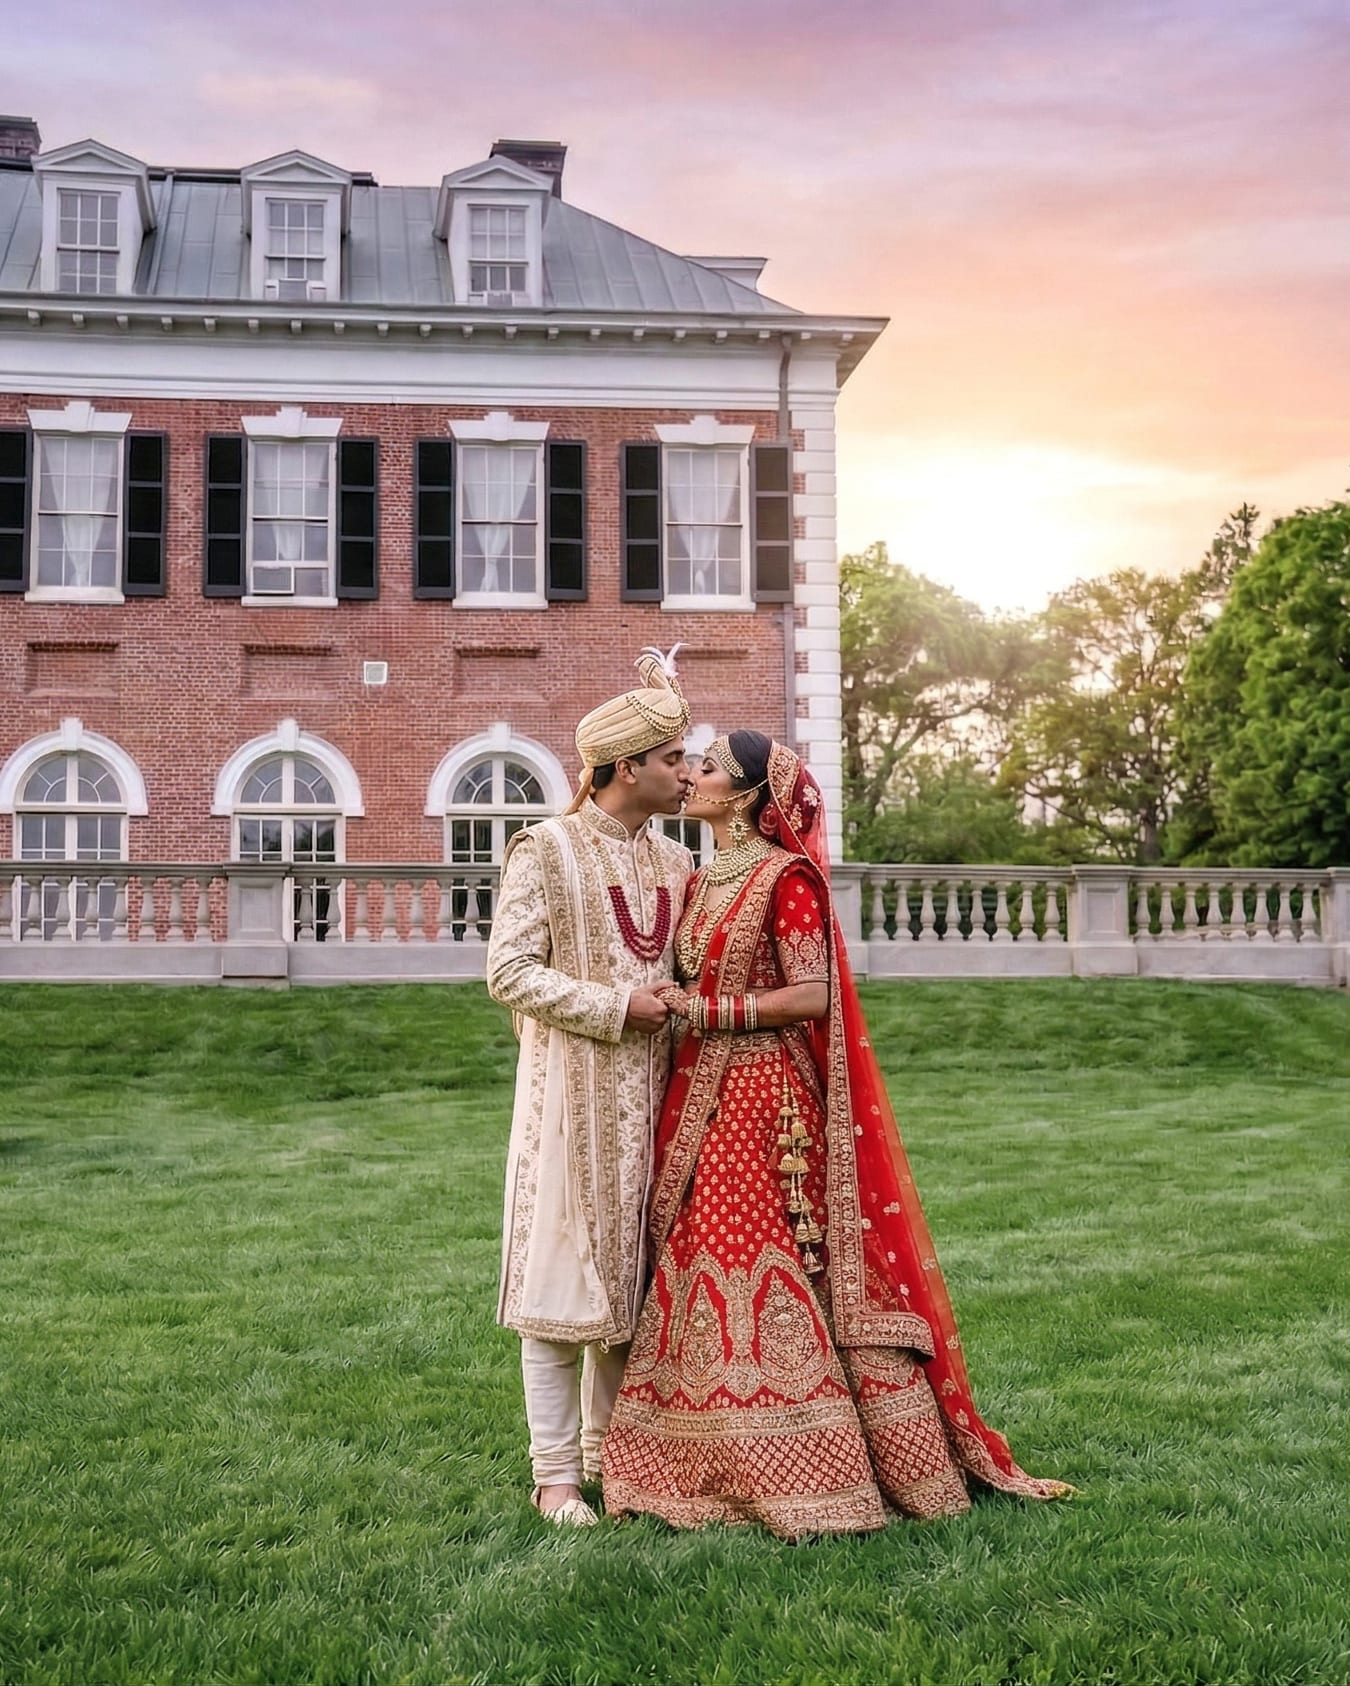
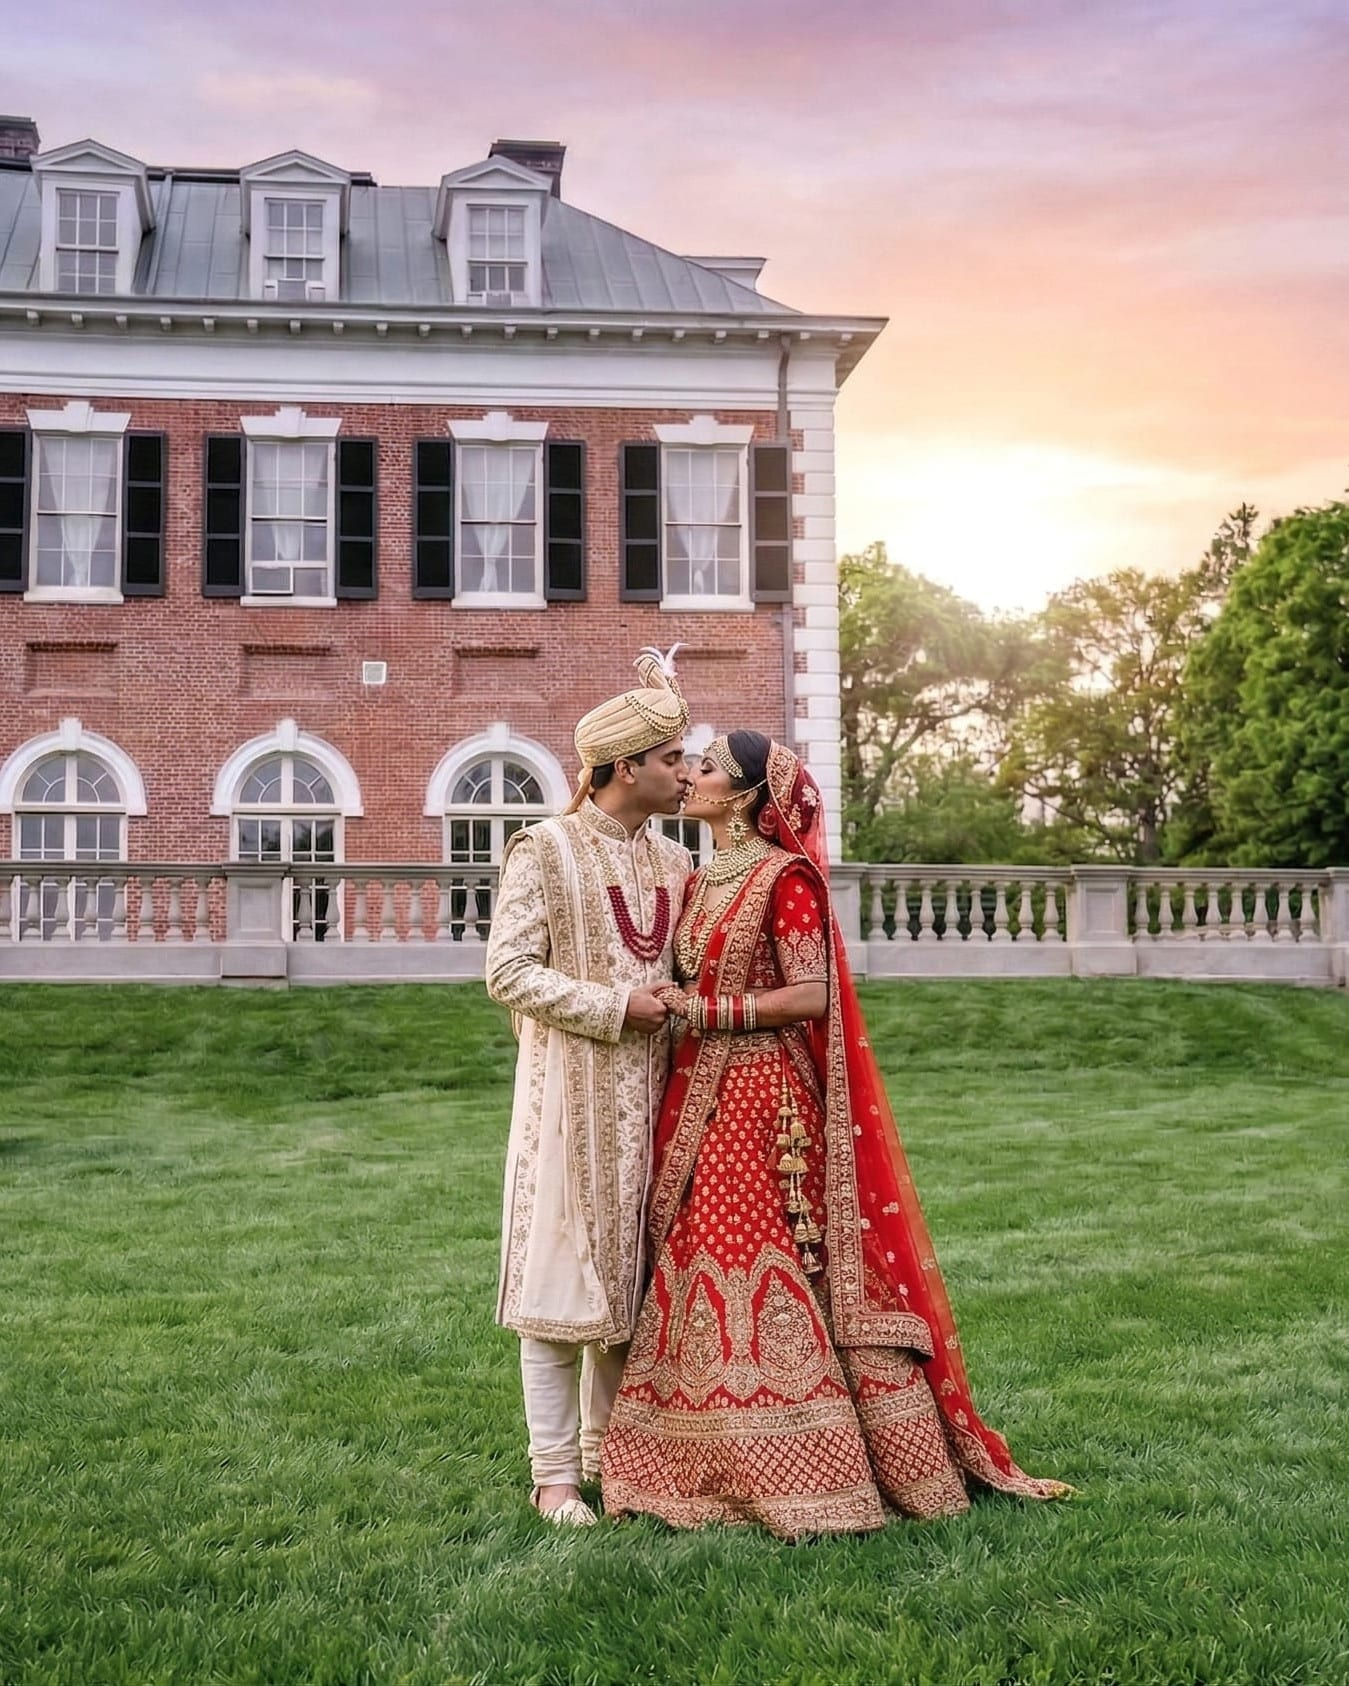
updated small changes and removed tardis cafe

diff --git a/src/components/TardisSection.tsx b/src/components/TardisSection.tsx
@@ -13,7 +13,10 @@ export default function TardisSection() {
   const isInView = useInView(ref, { once: false, margin: "-10%" });
 
   return (
-    <section className="bg-cream py-10 md:py-section px-6 overflow-hidden" ref={ref}>
+    <section
+      className="bg-cream py-10 md:py-section px-6 overflow-hidden"
+      ref={ref}
+    >
       <div className="max-w-8xl mx-auto grid grid-cols-1 lg:grid-cols-2 gap-16 items-center">
         <div className="order-2 lg:order-1 flex flex-col gap-3">
           <motion.div
@@ -81,11 +84,11 @@ export default function TardisSection() {
             animate={isInView ? { opacity: 1, x: 0 } : { opacity: 0, x: -16 }}
             transition={{ duration: 0.6, delay: 0.1, ease }}
           >
-            Culinary Excellence by Tardis Catering
+            Culinary Excellence by Tardi's Catering
           </motion.p>
 
           <h2 className="font-display text-[clamp(1.75rem,6vw,3.5rem)] leading-tight text-balance break-words uppercase text-primary-dark overflow-hidden">
-            {"Tardis Catering & Tardis Cafe".split(" ").map((word, i) => (
+            {"Tardi's Catering".split(" ").map((word, i) => (
               <span
                 key={i}
                 className="inline-block overflow-hidden mr-[0.22em]"
@@ -110,7 +113,7 @@ export default function TardisSection() {
           >
             At Artistry Estate, dining is more than a service. It is an
             experience crafted to captivate the senses and elevate every moment.
-            Under the direction of Tardis Catering, each menu is a celebration
+            Under the direction of Tardi's Catering, each menu is a celebration
             of innovation, seasonality, and refined taste.
           </motion.p>
 
@@ -132,7 +135,7 @@ export default function TardisSection() {
             animate={isInView ? { opacity: 1, y: 0 } : { opacity: 0, y: 20 }}
             transition={{ duration: 0.8, delay: 0.85, ease }}
           >
-            Using only the finest, locally sourced ingredients, Tardis Catering
+            Using only the finest, locally sourced ingredients, Tardi's Catering
             transforms each dish into a work of art, beautifully presented and
             flawlessly executed. Paired with impeccable service and seamless
             coordination, the result is a dining experience as memorable as the
@@ -154,12 +157,12 @@ export default function TardisSection() {
             animate={isInView ? { opacity: 1, y: 0 } : { opacity: 0, y: 20 }}
             transition={{ duration: 0.8, delay: 1, ease }}
           >
-            <Link href="/tardis-catering" className="btn-outline-dark">
-              Tardis Catering
+            <Link href="/tardis-catering" className="btn-primary">
+              Tardi's Catering
             </Link>
-            <Link href="/tardis-cafe" className="btn-primary">
-              Tardis Cafe
-            </Link>
+            {/* <Link href="/tardis-cafe" className="btn-primary">
+              Tardi's Cafe
+            </Link> */}
           </motion.div>
         </div>
       </div>

diff --git a/src/app/tardis-catering/page.tsx b/src/app/tardis-catering/page.tsx
@@ -16,7 +16,7 @@ export default function TardisCateringPage() {
   return (
     <>
       <PageHero
-        label="Tardis Catering"
+        label="Tardi's Catering"
         title="Cuisine as Artful as the Setting"
         description="The exclusive culinary partner of Artistry. Every dish is crafted with the same attention to beauty and detail as the venue itself."
         imageSrc="/media/images/Tardis%20Catering/catering/hero.jpeg"
@@ -30,10 +30,10 @@ export default function TardisCateringPage() {
             <SectionHeader
               label="Who We Are"
               title="Culinary Craft at the Heart of Every Event"
-              description="Tardis Catering was founded on a single belief: that great food is not just sustenance. It is memory. A taste that recalls a moment. A dish that defines a celebration."
+              description="Tardi's Catering was founded on a single belief: that great food is not just sustenance. It is memory. A taste that recalls a moment. A dish that defines a celebration."
             />
             <p className="prose-venue mt-5">
-              As the exclusive catering partner of Artistry, Tardis brings
+              As the exclusive catering partner of Artistry, Tardi's brings
               together an award-winning culinary team trained in the finest
               kitchens of New York and Europe. Every menu is developed in close
               collaboration with the client. Seasonal ingredients, artisan
@@ -134,20 +134,6 @@ export default function TardisCateringPage() {
         </div>
       </section>
 
-      {/* Cafe link */}
-      <section className="bg-primary py-10 md:py-section px-6 text-center">
-        <SectionHeader
-          label="Also by Tardis"
-          title="Visit Tardis Cafe"
-          description="Stop by our Tardis Cafe for artisan coffee, seasonal bites, and light fare, open to museum visitors and event guests alike."
-          centered
-          light
-          className="mb-8"
-        />
-        <Link href="/tardis-cafe" className="btn-outline">
-          Explore Tardis Cafe
-        </Link>
-      </section>
     </>
   );
 }

diff --git a/src/app/tardis-cafe/page.tsx b/src/app/tardis-cafe/page.tsx
@@ -17,7 +17,7 @@ export default function TardisCafePage() {
   return (
     <>
       <PageHero
-        label="Tardis Cafe"
+        label="Tardi's Cafe"
         title="A Perfect Pause Among Art and Nature"
         description="Artisan coffee, seasonal fare, and warm hospitality. A tranquil retreat within the Nassau County Museum of Art grounds."
         imageSrc="/media/images/Tardis%20Catering/cafe/hero-image.png"
@@ -31,14 +31,14 @@ export default function TardisCafePage() {
             <SectionHeader
               label="The Cafe"
               title="Where the Museum Grounds Meet a Warm Cup"
-              description="Tardis Cafe was born from a desire to offer museum visitors and event guests a moment of true comfort: a beautifully crafted coffee, a seasonal bite, a place to pause and reflect."
+              description="Tardi's Cafe was born from a desire to offer museum visitors and event guests a moment of true comfort: a beautifully crafted coffee, a seasonal bite, a place to pause and reflect."
             />
             <p className="prose-venue mt-5">
-              Located within the museum grounds, the Tardis Cafe is the perfect
+              Located within the museum grounds, the Tardi's Cafe is the perfect
               companion to a morning stroll through the sculpture garden or a
               quiet lunch before an afternoon event. Every item on our menu
               reflects the same attention to craft and quality that defines
-              Tardis Catering.
+              Tardi's Catering.
             </p>
             <div className="mt-8 space-y-4">
               <div className="flex gap-3 items-start">
@@ -138,15 +138,15 @@ export default function TardisCafePage() {
       {/* CTA */}
       <section className="bg-primary py-10 md:py-section px-6 text-center">
         <SectionHeader
-          label="Also by Tardis"
+          label="Also by Tardi's"
           title="Hosting an Event?"
-          description="Tardis Catering handles full event menus and service at Artistry. Explore our catering experience."
+          description="Tardi's Catering handles full event menus and service at Artistry. Explore our catering experience."
           centered
           light
           className="mb-8"
         />
         <Link href="/tardis-catering" className="btn-outline">
-          Explore Tardis Catering
+          Explore Tardi's Catering
         </Link>
       </section>
     </>

diff --git a/src/data/navigation.ts b/src/data/navigation.ts
@@ -46,12 +46,12 @@ export const navigation: NavItem[] = [
     ],
   },
   {
-    label: "Tardis Catering",
+    label: "Tardi's Catering",
     href: "/tardis-catering",
-    children: [
-      { label: "Who We Are", href: "/tardis-catering" },
-      { label: "Tardis Cafe", href: "/tardis-cafe" },
-    ],
+    // children: [
+    //   { label: "Who We Are", href: "/tardis-catering" },
+    //   { label: "Tardi's Cafe", href: "/tardis-cafe" },
+    // ],
   },
   {
     label: "FIDI",

diff --git a/src/data/home.ts b/src/data/home.ts
@@ -6,11 +6,11 @@ export const venueImages = [
     alt: "Artistry event venue exterior at Nassau County Museum of Art",
   },
   {
-    src: "/media/images/home/about_1.jpeg",
+    src: "/media/images/home/about_2.jpg",
     alt: "Artistry venue interior and grounds",
   },
   {
-    src: "/media/images/home/about_3.jpeg",
+    src: "/media/images/home/about_4.jpg",
     alt: "Artistry venue gardens and estate",
   },
 ];
@@ -65,7 +65,7 @@ export const tardisSectionImages = [
     alt: "Tardis Catering elegant black and gold banquet table setting",
   },
   {
-    src: "/media/images/home/image_1.jpg",
+    src: "/media/images/Tardis Catering/catering/gallery/1.jpeg",
     alt: "Tardis Catering plated salad with crystal glassware",
   },
   {

diff --git a/src/data/about.ts b/src/data/about.ts
@@ -294,10 +294,9 @@ export const sitemapSections = [
     links: [{ label: "Preferred Vendors", href: "/vendors" }],
   },
   {
-    title: "Tardis Catering",
+    title: "Tardi's Catering",
     links: [
       { label: "Who We Are", href: "/tardis-catering" },
-      { label: "Tardis Cafe", href: "/tardis-cafe" },
     ],
   },
   {

diff --git a/src/data/site.ts b/src/data/site.ts
@@ -29,8 +29,7 @@ export const SITE = {
       "FIDI Hospitality is a premier hospitality group operating distinctive event venues across the New York metropolitan area. Artistry is one of FIDI's signature venues.",
   },
   catering: {
-    name: "Tardis Catering",
-    cafe: "Tardis Cafe",
+    name: "Tardi's Catering",
     description:
       "Tardis Catering is the exclusive culinary partner of Artistry, offering bespoke menus crafted by world-class chefs for weddings, corporate gatherings, and social celebrations.",
   },

diff --git a/src/app/events/celebrate-life/page.tsx b/src/app/events/celebrate-life/page.tsx
@@ -52,7 +52,7 @@ export default function CelebrateLifePage() {
               {
                 label: "The Food",
                 title: "Menus for the Occasion",
-                body: "Tardis Catering builds the menu around you: buffet, plated, or passed.",
+                body: "Tardi's Catering builds the menu around you: buffet, plated, or passed.",
                 img: "/media/images/events/celebrate/2 - The Food.jpeg",
                 alt: "Floral tablescape with gold chargers",
               },

diff --git a/src/app/events/corporate/page.tsx b/src/app/events/corporate/page.tsx
@@ -58,7 +58,7 @@ export default function CorporatePage() {
             />
             <p className="prose-venue mt-5">
               From intimate executive dinners to company-wide summer outings,
-              our team handles every detail with precision. Tardis Catering
+              our team handles every detail with precision. Tardi's Catering
               delivers exceptional cuisine and service, while our event
               coordinators ensure a seamless experience from arrival to
               departure.

diff --git a/src/app/events/weddings/page.tsx b/src/app/events/weddings/page.tsx
@@ -67,7 +67,7 @@ export default function WeddingsPage() {
             />
             <p className="prose-venue mt-5">
               From your first visit to the last moments of the evening, our
-              wedding team works alongside Tardis Catering and the museum staff
+              wedding team works alongside Tardi's Catering and the museum staff
               to make sure every part of the day runs the way you imagined it.
             </p>
             <div className="mt-8 flex flex-wrap gap-4">

diff --git a/src/app/fidi/page.tsx b/src/app/fidi/page.tsx
@@ -38,7 +38,7 @@ export default function FidiPage() {
               hospitality experience matches the grandeur of the venue. From
               Artistry at the Nassau County Museum of Art to our growing
               portfolio of signature properties, FIDI brings together the finest
-              in event management, culinary excellence via Tardis Catering, and
+              in event management, culinary excellence via Tardi's Catering, and
               unwavering commitment to client vision.
             </p>
           </div>

diff --git a/src/components/VenueSticky.tsx b/src/components/VenueSticky.tsx
@@ -104,7 +104,7 @@ export default function VenueSticky() {
       </p>
       <p className="mt-5 text-charcoal/65">
         Under the direction of FIDI Hospitality, and complemented by the
-        culinary expertise of Tardis Catering, Artistry delivers a seamless
+        culinary expertise of Tardi's Catering, Artistry delivers a seamless
         blend of elevated service and exceptional cuisine. Every event is
         thoughtfully curated, ensuring that the artistry of the surroundings is
         matched by the artistry of the experience.